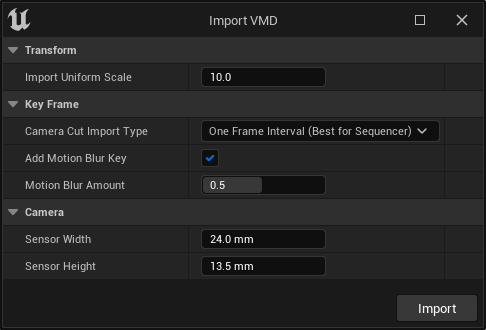
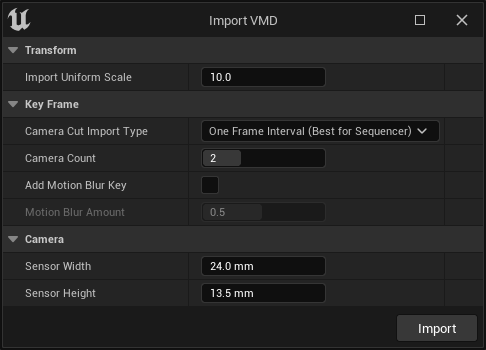
update readme

diff --git a/README.md b/README.md
@@ -94,7 +94,7 @@ This video has the problem.
 
 As shown in the picture above, there is a problem of creating a bad-looking motion blur.
 
-### Problem2(solved): Add Motion Blur Track
+### Problem2(solve method1): Add Motion Blur Track
 
 So to solve this problem, I added a function of turning off the motion blur only from the camera cut.
 
@@ -105,6 +105,20 @@ This is the function shown on the import menu.
 ![motion blur track](docs/fig6.png)
 
 If you import, this is how motion blur tracks appear on the camera.
+
+### Problem2(solve method2): Use Multiple Cameras
+
+Create a camera cut by swapping multiple cameras (at least two).
+
+![camera count menu](docs/fig11.png)
+
+In Import Settings, you can determine the number of cameras. The maximum value is 4.
+
+![camera cut track](docs/fig12.png)
+
+This picture shows four cameras swapping each other and use splitted camera motion.
+
+This method provides the cleanest results in Sequencer.
 
 ## Knowns Issues
 
